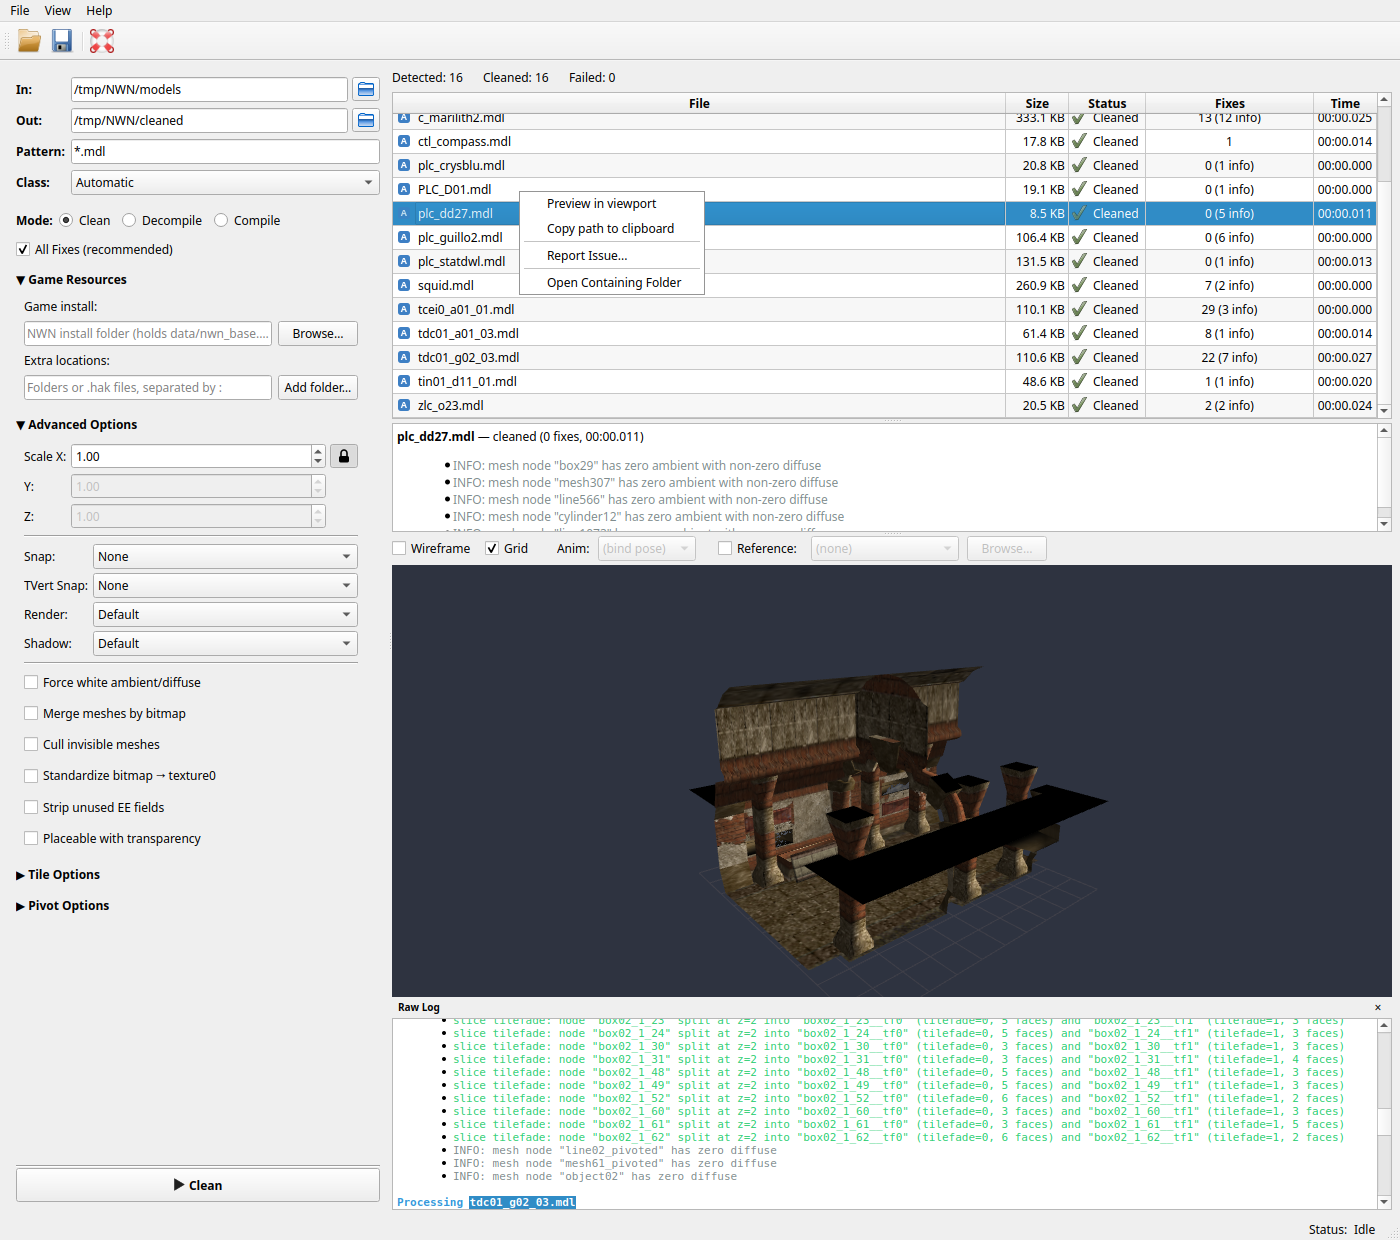
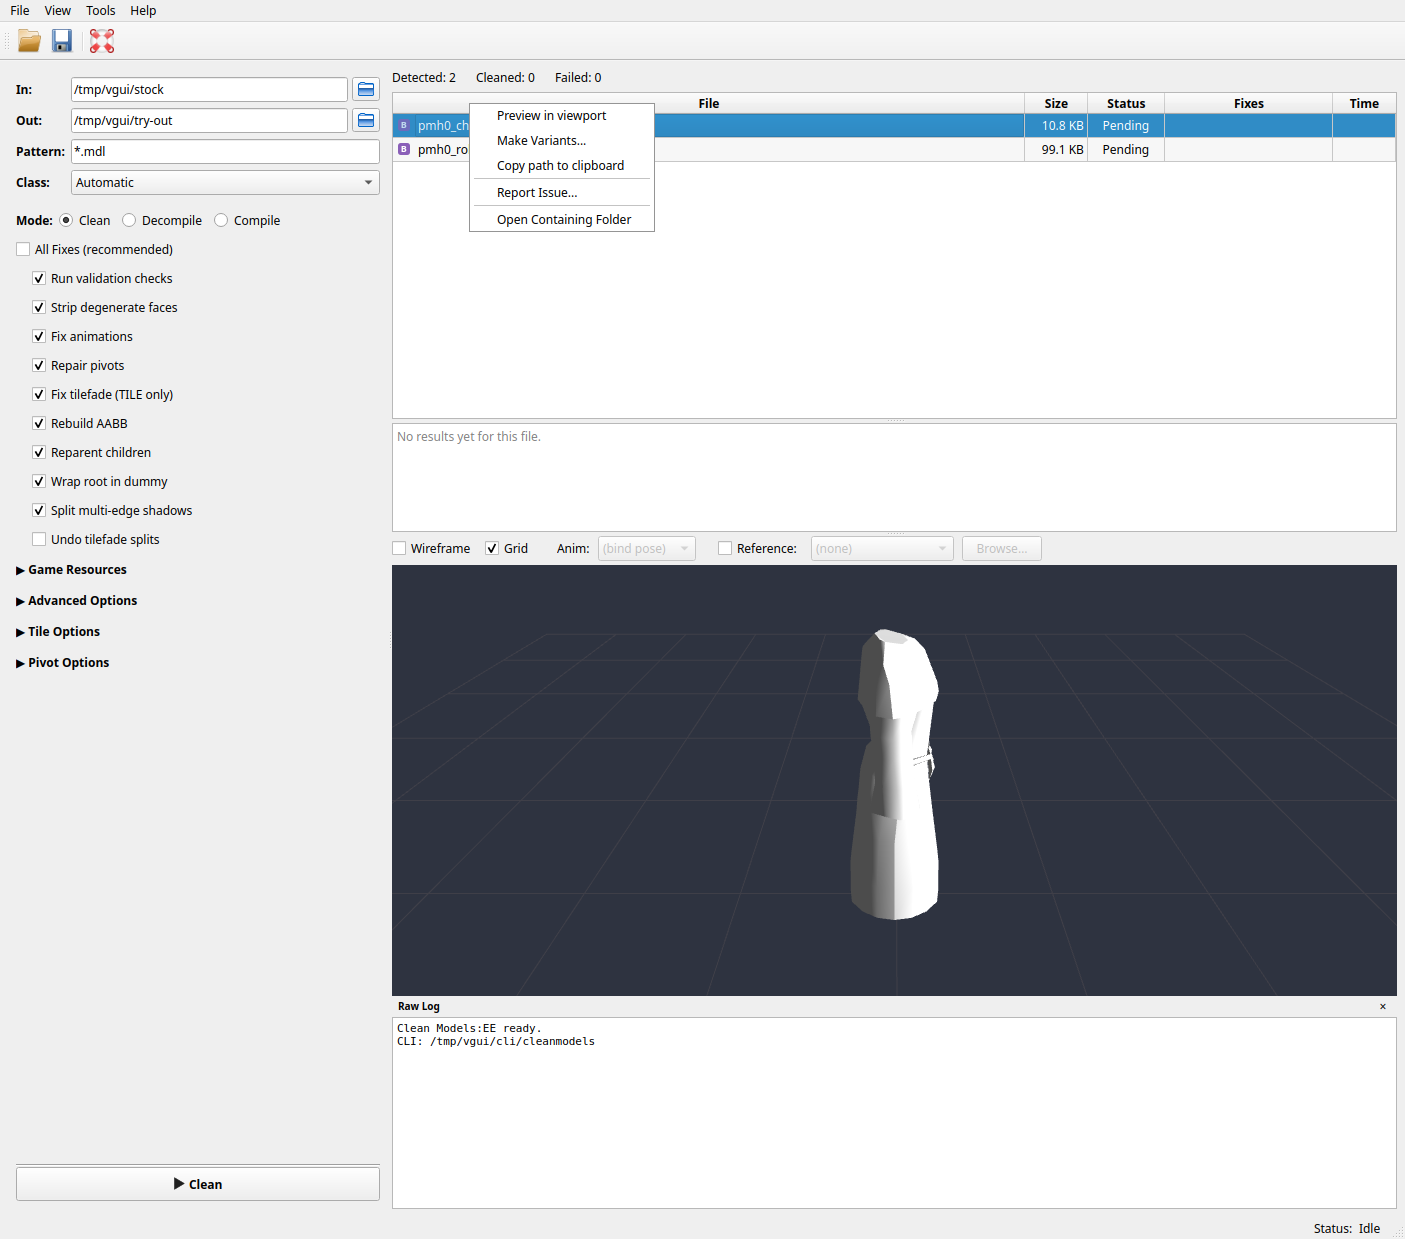
docs: Make Variants text and screenshots match the released behaviour (textures, notes, kept zoom, headlight, replace prompt, right-click entry)

diff --git a/README.md b/README.md
@@ -29,16 +29,16 @@ The repair, transform and tile options are in the panel on the left:
 
 ![The options panel with Game Resources and Advanced Options expanded](docs/screenshots/options.png)
 
-*Make Variants* fits a robe, cloak or armour part to every body that wears that kind of model and shows each on its body: the variant in grey, the body's base parts in blue (for a robe, only the parts the game shows under it). Where blue shows through the grey, that variant is too tight there. The bodies come from the game install and the haks under *Game Resources*, so custom races appear as their own columns. Phenotypes of the same shape share a tile ("also phenotypes 9, 15-21"): robes and cloaks need a copy for every phenotype that has them, mounted and fighting styles included, and those get the tile's fit, renamed. Click a tile to adjust it: overall width and length, and the width at the shoulders, chest, waist, hips and hem (sleeves stay on the arms). Letting go of a slider remakes that tile's bodies; Reset goes back to the fit. Double-click a tile to open it in the main viewport. Views turn together, so you can look at all of them from the back at once:
+*Make Variants* fits a robe, cloak or armour part to every body that wears that kind of model and shows each on its body: the variant with its texture (coloured as in game), the body's base parts in solid blue (for a robe, only the parts the game shows under it). Where blue shows through, that variant is too tight there. The bodies come from the game install and the haks under *Game Resources*, so custom races appear as their own columns. Phenotypes of the same shape share a tile ("also phenotypes 9, 15-21"): robes and cloaks need a copy for every phenotype that has them, mounted and fighting styles included, and those get the tile's fit, renamed. Click a tile to adjust it: overall width and length, and the width at the shoulders, chest, waist, hips and hem (sleeves stay on the arms). A change remakes that tile's bodies after a moment (Enter in a box at once), and the tile keeps your zoom; Reset goes back to the fit. The tile's notes, if any, show below the grid. Double-click a tile to open it in the main viewport. Views turn together and are lit from the camera, so you can look at all of them from the back at once. If versions already exist in the output folder, it asks whether to replace or skip them:
 
-![Make Variants: a robe made for twelve bodies, each shown on its body](docs/screenshots/variants.png)
+![Make Variants: a robe made for every race and phenotype, each textured on its body, the dwarf's shoulders brought in to 90 %](docs/screenshots/variants.png)
 
 <details>
 <summary>More: the right-click menu and the bug report prompt</summary>
 
-Right-click a file to preview it, copy its path, report a problem, or open its folder:
+Right-click a file to preview it, make its variants, copy its path, report a problem, or open its folder:
 
-![The right-click menu on a file: Preview in viewport, Copy path, Report Issue, Open Containing Folder](docs/screenshots/context-menu.png)
+![The right-click menu on a file: Preview in viewport, Make Variants, Copy path, Report Issue, Open Containing Folder](docs/screenshots/context-menu.png)
 
 *Report Issue* asks what is wrong and sends the model to the cleanmodels issue tracker; Cancel sends nothing:
 

diff --git a/DESIGN.md b/DESIGN.md
@@ -103,7 +103,7 @@ OpenGL clear/grid/overlay colors. RGB floats in code; hex equivalents documented
 
 - **Background** (`#2E3340`, RGB(0.18, 0.20, 0.25)): Dark slate-blue clear color. Cool and neutral; lets light-coloured models sit comfortably without glare.
 - **Grid** (`#595966`, RGB(0.35, 0.35, 0.40)): Mid-gray grid lines. Visible against the background but not so bright they compete with the model wireframe.
-- **Reference Model Overlay** (`#6699E6`, RGB(0.4, 0.6, 0.9)): Light blue. Distinct from any common diffuse colour so the user can tell at a glance what's the loaded model and what's the reference. In the main viewport the reference is a wireframe behind the model; in *Make Variants* the body is drawn solid in this blue and depth-tested with the variant (grey), so the body shows exactly where it pokes through.
+- **Reference Model Overlay** (`#6699E6`, RGB(0.4, 0.6, 0.9)): Light blue. Distinct from any common diffuse colour so the user can tell at a glance what's the loaded model and what's the reference. In the main viewport the reference is a wireframe behind the model; in *Make Variants* the body is drawn solid in this blue and depth-tested with the variant (textured; grey where no texture is found), so the body shows exactly where it pokes through. The *Make Variants* tiles also light from the camera (a headlight) instead of the fixed front light, so the back of a model is as readable as its front.
 
 ### Invalid State
 
